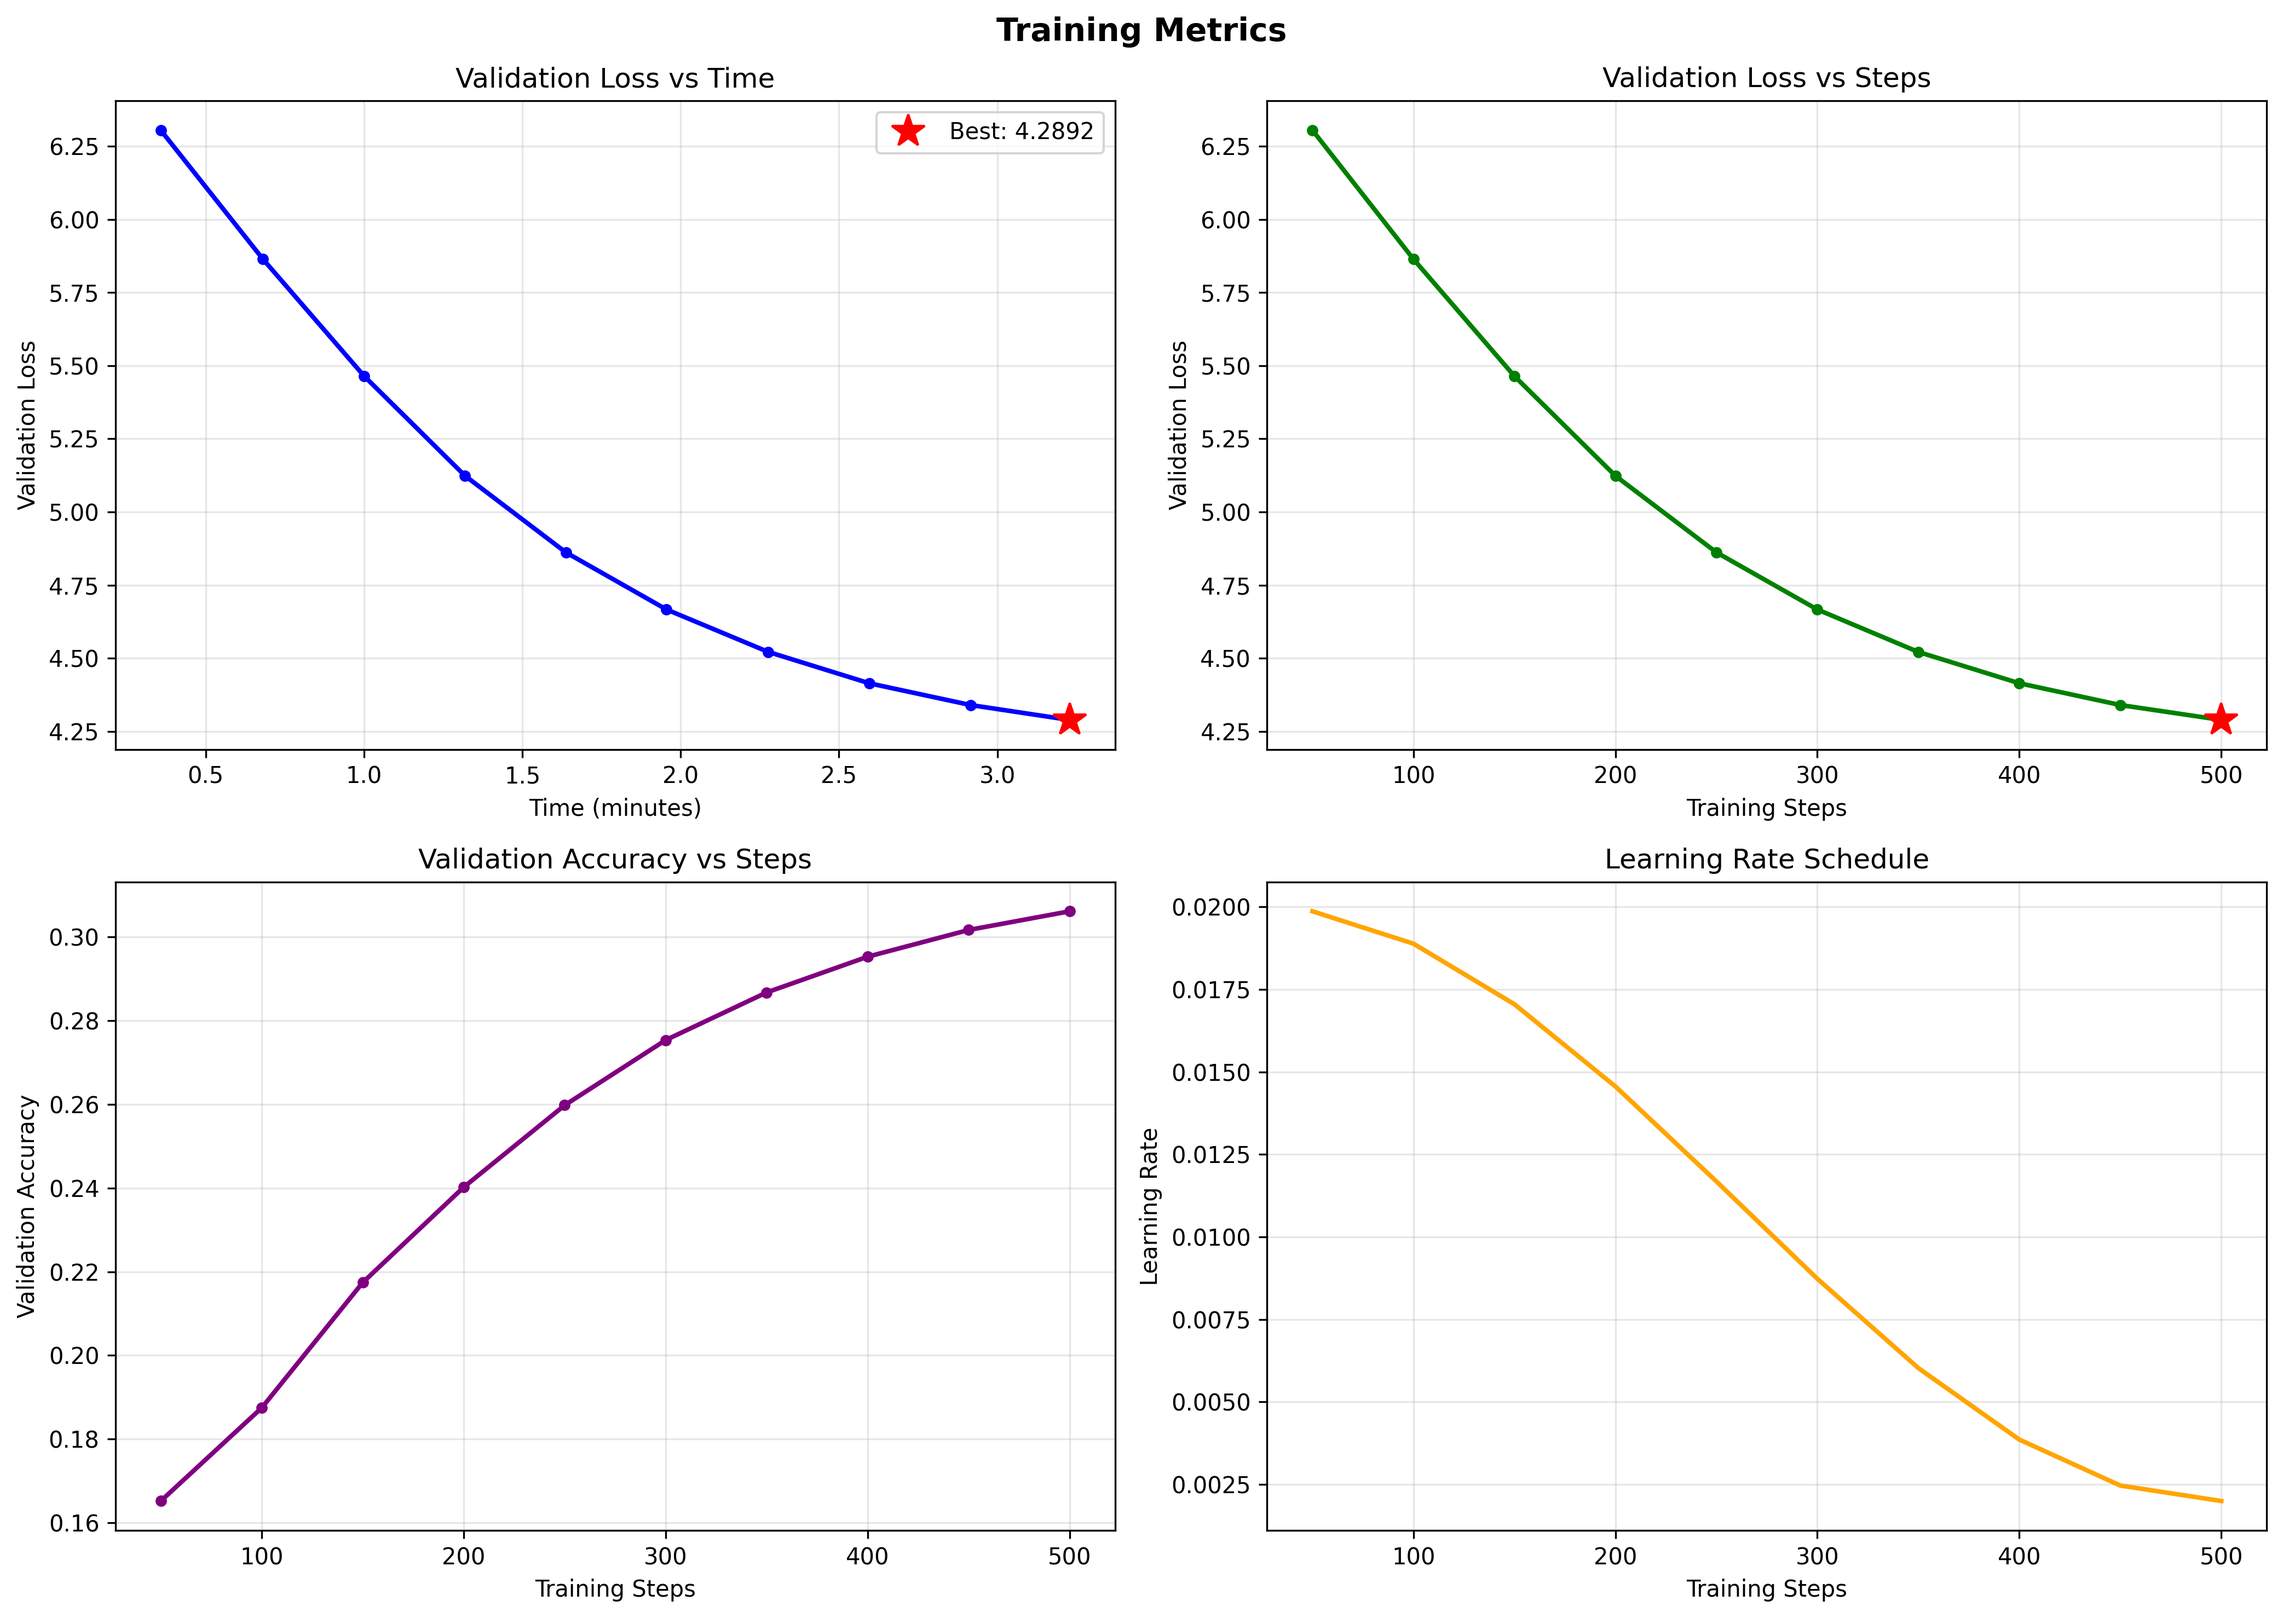
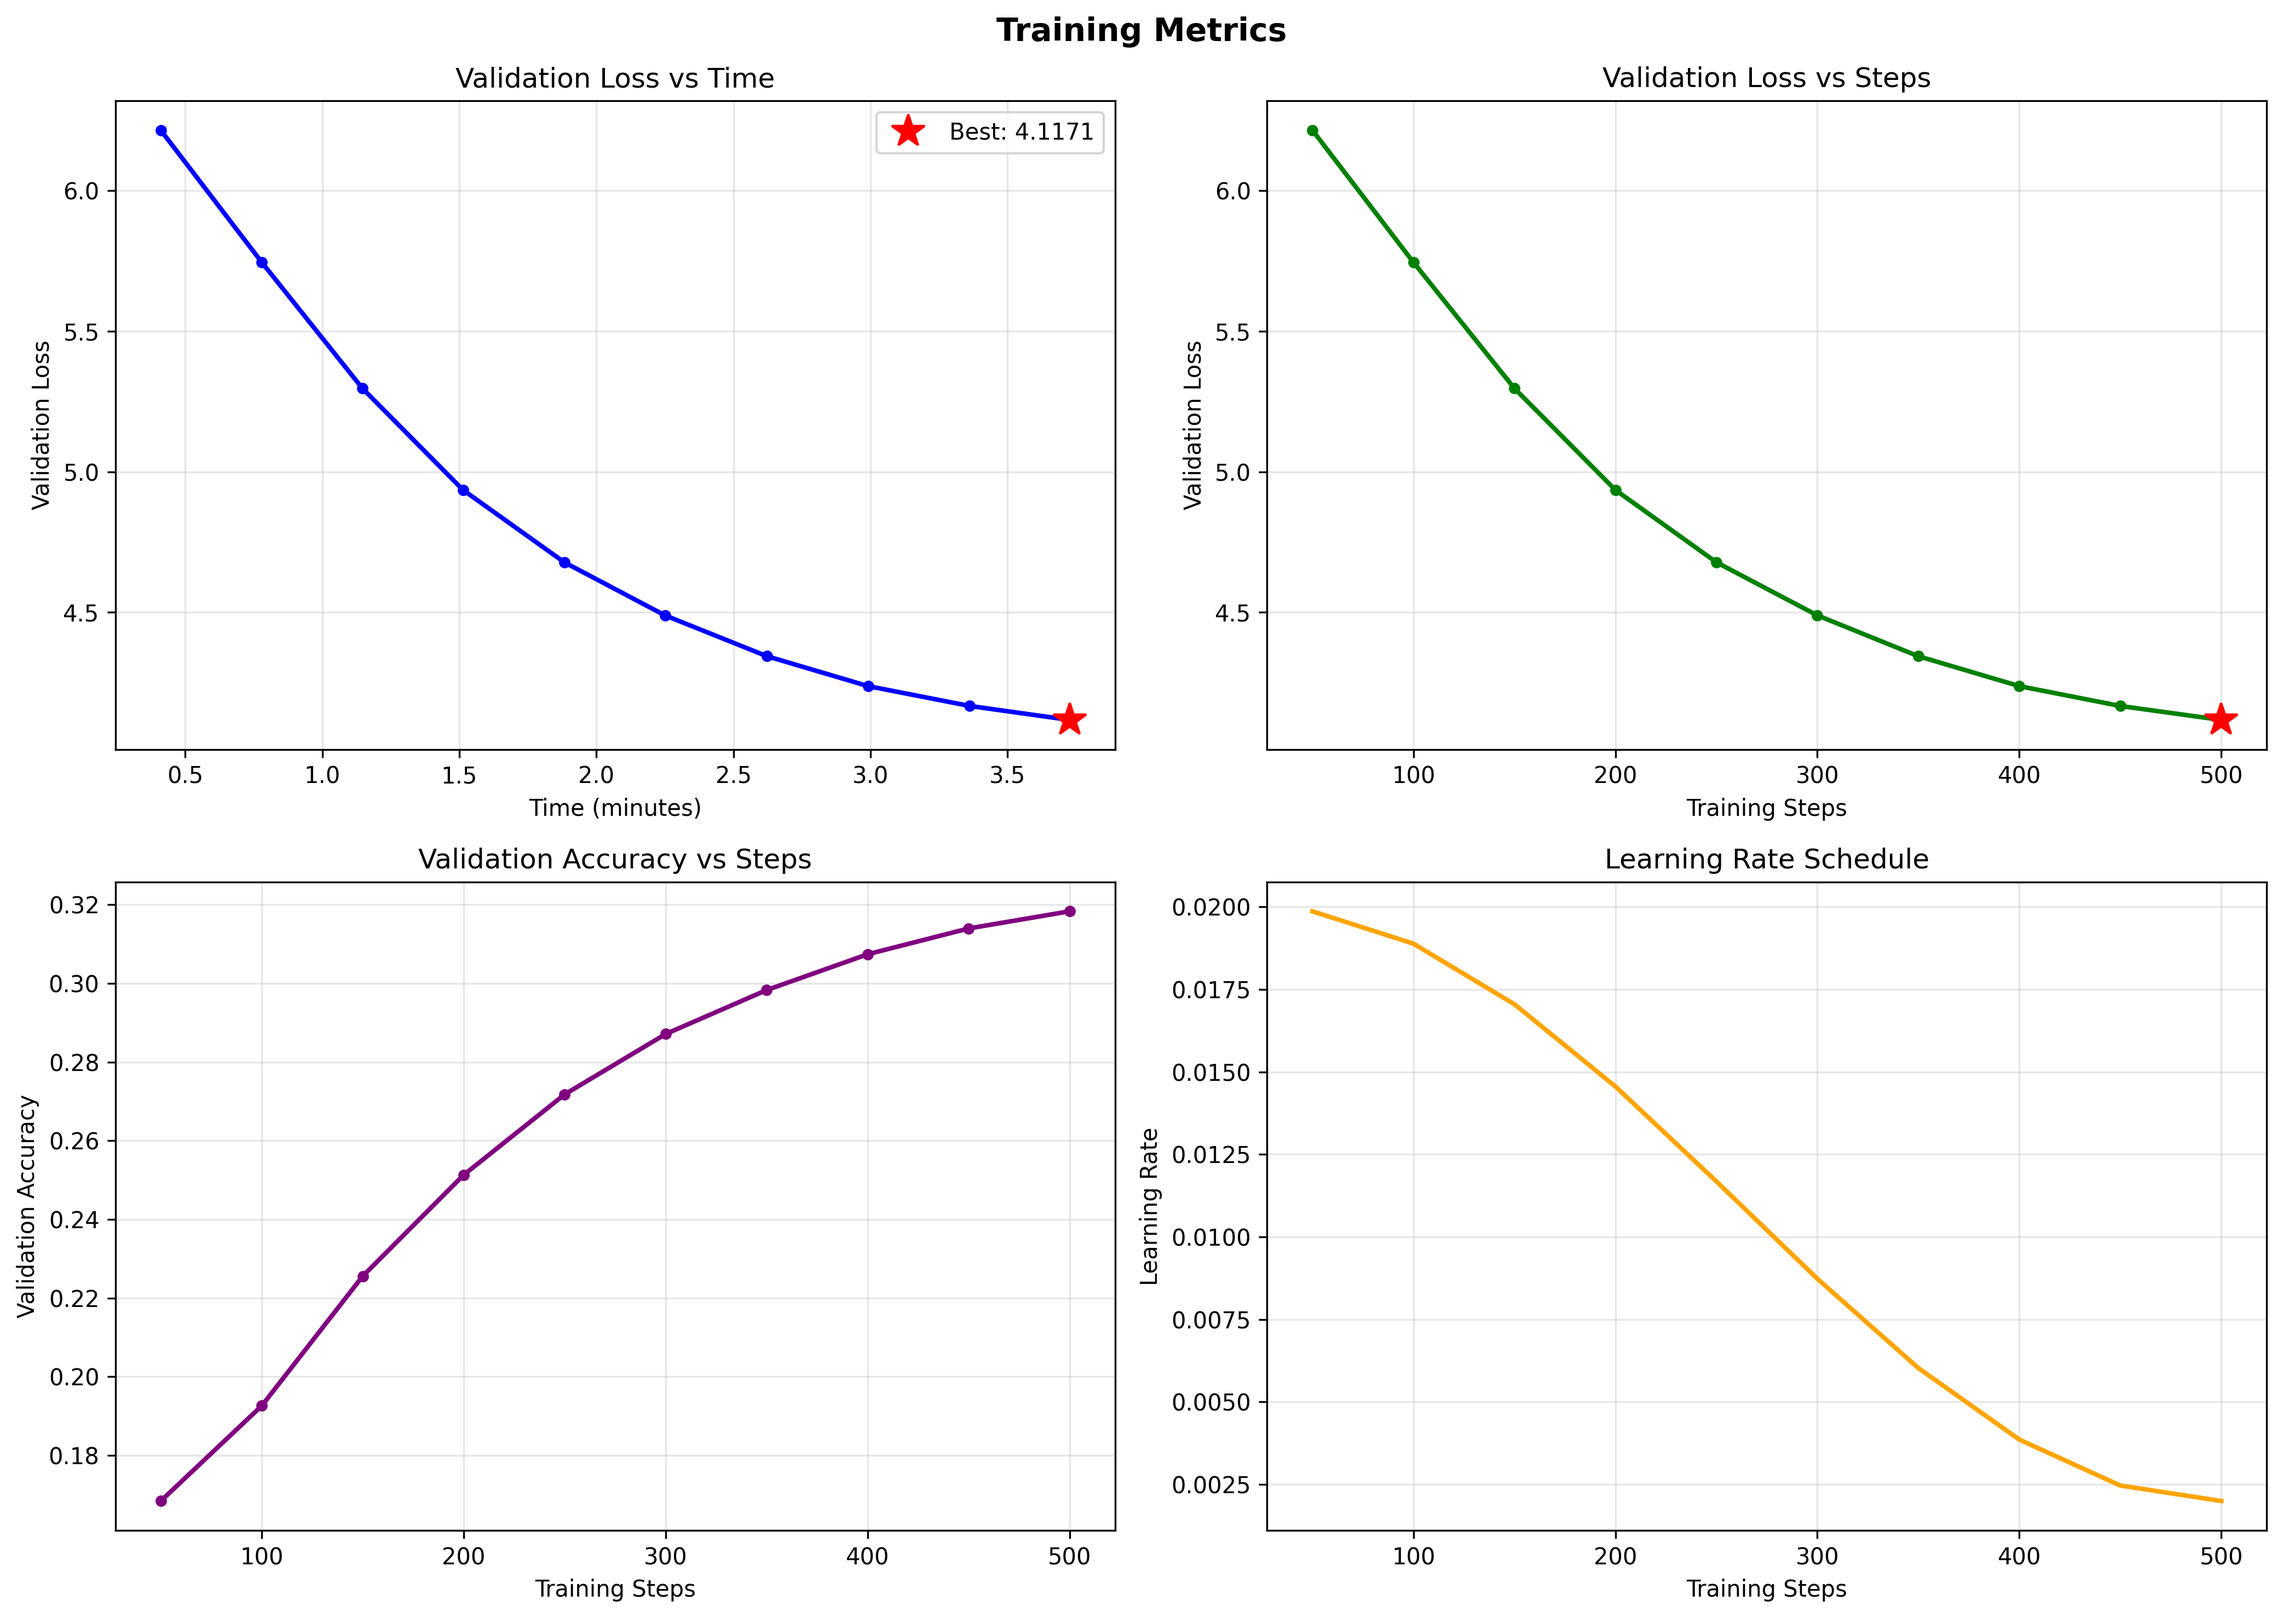
feat: Refactor dataset loading with caching, adjust training parameters, and update metrics plot.

diff --git a/train_moe.py b/train_moe.py
@@ -23,6 +23,77 @@ def print_system_info():
     print(f"PyTorch: {torch.__version__}\n")
 
 
+def prepare_datasets(data_cfg, tokenizer):
+    import json
+    import shutil
+    from datasets import load_from_disk, load_dataset, Dataset
+    from data.loader import tokenize_and_chunk, finalize_dataset
+
+    cache_dir = "./processed_data"
+    train_cache = os.path.join(cache_dir, "train")
+    val_cache = os.path.join(cache_dir, "val")
+    info_path = os.path.join(cache_dir, "dataset_info.json")
+
+    # Define what config parameters invalidate the cache
+    config_state = {
+        "dataset_path": data_cfg.dataset_path,
+        "dataset_name": data_cfg.dataset_name,
+        "tokenizer_name": data_cfg.tokenizer_name,
+        "seq_length": data_cfg.seq_length,
+        "num_samples": data_cfg.num_samples,
+    }
+
+    # 1. Try to load valid cache
+    if os.path.exists(train_cache) and os.path.exists(val_cache) and os.path.exists(info_path):
+        try:
+            with open(info_path, "r") as f:
+                if json.load(f) == config_state:
+                    print(f"Loading cached datasets from {cache_dir}...")
+                    return load_from_disk(train_cache), load_from_disk(val_cache)
+            print("Cache configuration mismatch. Rebuilding...")
+        except Exception as e:
+            print(f"Cache check failed ({e}). Rebuilding...")
+    
+    # 2. Rebuild cache
+    if os.path.exists(cache_dir):
+        print(f"Cleaning old cache at {cache_dir}...")
+        shutil.rmtree(cache_dir)
+    
+    # Load and split
+    print("Loading raw dataset and splitting documents...")
+    raw_dataset = load_dataset(
+        data_cfg.dataset_path,
+        data_cfg.dataset_name,
+        split=data_cfg.split,
+        cache_dir=data_cfg.cache_dir,
+        streaming=True,
+    )
+    
+    raw_samples = list(raw_dataset.take(data_cfg.num_samples))
+    num_val = int(len(raw_samples) * 0.1)
+    num_train = len(raw_samples) - num_val
+    
+    raw_train = Dataset.from_list(raw_samples[:num_train])
+    raw_val = Dataset.from_list(raw_samples[num_train:])
+    print(f"Split into {len(raw_train):,} train docs and {len(raw_val):,} val docs")
+    
+    # Tokenize and save
+    print("Tokenizing train set...")
+    data_cfg.save_to_disk = train_cache
+    train_ds = finalize_dataset(tokenize_and_chunk(raw_train, tokenizer, data_cfg), data_cfg)
+    
+    print("Tokenizing validation set...")
+    data_cfg.save_to_disk = val_cache
+    val_ds = finalize_dataset(tokenize_and_chunk(raw_val, tokenizer, data_cfg), data_cfg)
+
+    # Save cache info
+    with open(info_path, "w") as f:
+        json.dump(config_state, f, indent=2)
+    print("Saved dataset cache info.")
+
+    return train_ds, val_ds
+
+
 def main():
     logger = setup_logging(log_dir="./logs")
     logger.info("Starting MoE training")
@@ -43,54 +114,14 @@ def main():
         cache_dir="./hf_cache",
     )
 
-    from data.loader import setup_tokenizer, tokenize_and_chunk, finalize_dataset
-    from datasets import load_from_disk, load_dataset, Dataset
+    from data.loader import setup_tokenizer
     
     # Setup tokenizer first to get vocab size
     tokenizer = setup_tokenizer(data_cfg)
     config.vocab_size = tokenizer.vocab_size
 
-    # Define cache paths
-    cache_dir = "./processed_data"
-    train_cache = os.path.join(cache_dir, "train")
-    val_cache = os.path.join(cache_dir, "val")
-
-    if os.path.exists(train_cache) and os.path.exists(val_cache):
-        print(f"Loading cached datasets from {cache_dir}...")
-        train_ds = load_from_disk(train_cache)
-        val_ds = load_from_disk(val_cache)
-    else:
-        # Split documents BEFORE tokenization to prevent data leakage
-        print("Loading raw dataset and splitting documents...")
-        raw_dataset = load_dataset(
-            data_cfg.dataset_path,
-            data_cfg.dataset_name,
-            split=data_cfg.split,
-            cache_dir=data_cfg.cache_dir,
-            streaming=True,
-        )
-        
-        # Take samples and split into train/val
-        raw_samples = list(raw_dataset.take(data_cfg.num_samples))
-        num_val = int(len(raw_samples) * 0.1)
-        num_train = len(raw_samples) - num_val
-        
-        raw_train = Dataset.from_list(raw_samples[:num_train])
-        raw_val = Dataset.from_list(raw_samples[num_train:])
-        logger.info(f"Split into {len(raw_train):,} train docs and {len(raw_val):,} val docs")
-        
-        # Now tokenize each split separately
-        print("Tokenizing train set...")
-        train_ds = tokenize_and_chunk(raw_train, tokenizer, data_cfg)
-        # Save train split
-        data_cfg.save_to_disk = train_cache
-        train_ds = finalize_dataset(train_ds, data_cfg)
-        
-        print("Tokenizing validation set...")
-        val_ds = tokenize_and_chunk(raw_val, tokenizer, data_cfg)
-        # Save val split
-        data_cfg.save_to_disk = val_cache
-        val_ds = finalize_dataset(val_ds, data_cfg)
+    # Prepare datasets (handles caching automatically)
+    train_ds, val_ds = prepare_datasets(data_cfg, tokenizer)
     
     logger.info(f"Train sequences: {len(train_ds):,}, Val sequences: {len(val_ds):,}")
 

diff --git a/configs/moe_config.py b/configs/moe_config.py
@@ -66,12 +66,12 @@ class GPU24GBMoEModelConfig(MoEModelConfig):
     expert_top_k: int = 2
     
     # Batch size
-    batch_size: int = 12
+    batch_size: int = 16
     gradient_accumulation_steps: int = 1
     
     # Data
     max_seq_len: int = 1024
-    num_documents: int = 10000
+    num_documents: int = 15000
     
     # Reduced logging
     log_milestones: Tuple[int, ...] = (100, 200, 300)
